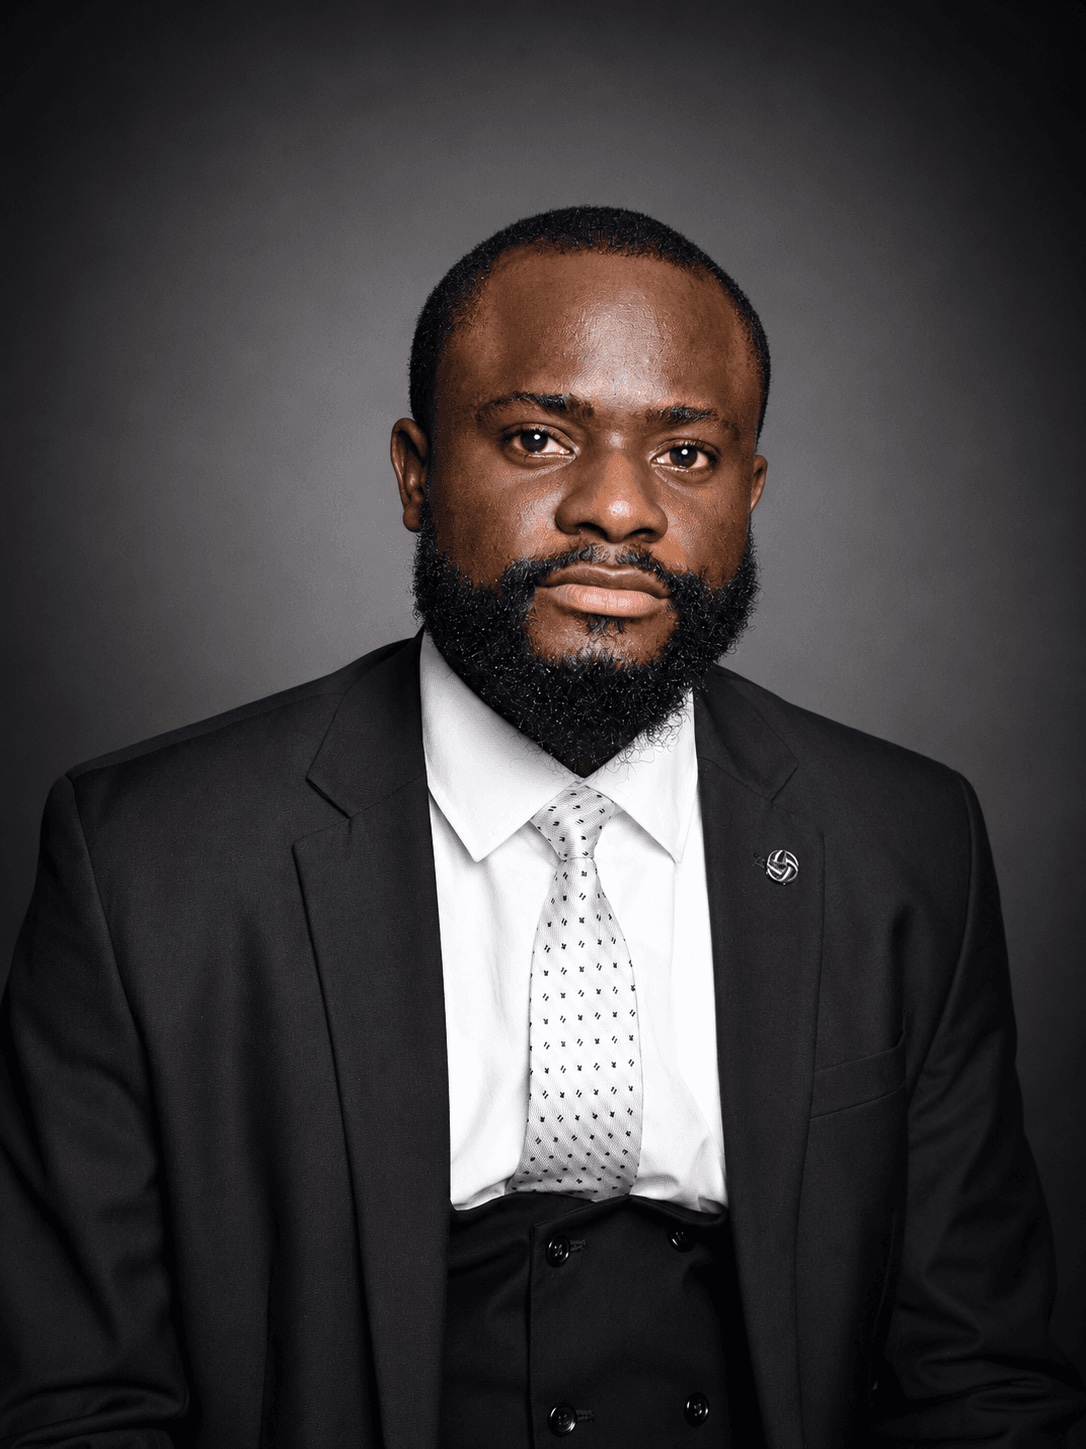
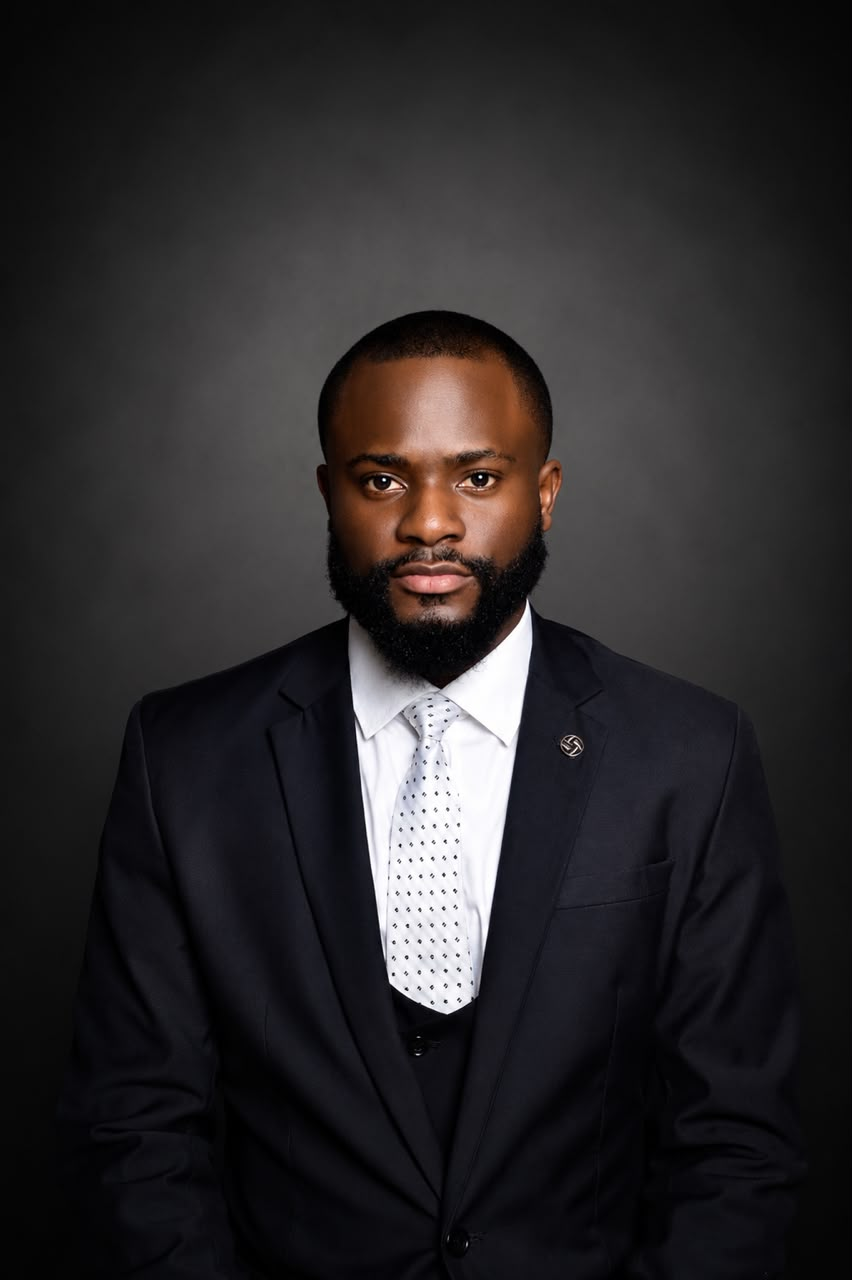
Use the new founder photo on both People pages

diff --git a/src/data/people.ts b/src/data/people.ts
@@ -1,6 +1,5 @@
 import type { StaticImageData } from "next/image";
 import chinonsoSheriff from "../../public/images/people/chinonso-sheriff.jpg";
-import chinonsoSheriffPortrait from "../../public/images/people/chinonso-sheriff-portrait.jpg";
 
 // Real lawyers are written out in full and appear on the People pages. Profiles
 // made with p() are PLACEHOLDERS invented for the design build (they only author
@@ -15,7 +14,6 @@ export type Person = {
   practices: string[]; // practice slugs
   focus?: string[]; // specialisms as the lawyer describes them
   photo?: StaticImageData;
-  portrait?: StaticImageData; // optional second photo for the profile page
   phone?: string;
   email?: string;
   bio: string[];
@@ -39,7 +37,6 @@ export const people: Person[] = [
     practices: ["criminal-law-defence", "dispute-resolution", "property-conveyancing", "real-estate-construction", "corporate-m-and-a", "entertainment-law"],
     focus: ["Criminal Law", "Civil Litigation", "Property Law", "Corporate Law", "Business Law", "Entertainment Law"],
     photo: chinonsoSheriff,
-    portrait: chinonsoSheriffPortrait,
     bio: [
       "Chinonso is the Founder and Principal Counsel of Fiat Justitia Attorneys. He is a dedicated legal practitioner specialising in Criminal, Civil, Property, Corporate, Business and Entertainment Law, combining meticulous legal research with persuasive writing to deliver clear, strategic solutions to complex legal challenges.",
       "He is an alumnus of Afe Babalola University, Ado-Ekiti, Ekiti State, where he obtained his Bachelor of Laws degree (LL.B. Hons.). He went on to complete the mandatory National Youth Service Corps (NYSC) and then the Nigerian Law School programme at the Bagauda Campus, Kano State.",

diff --git a/src/app/people/[slug]/page.tsx b/src/app/people/[slug]/page.tsx
@@ -23,7 +23,6 @@ export default async function PersonPage({ params }: Props) {
   const person = getMember((await params).slug);
   if (!person) notFound();
 
-  const portrait = person.portrait ?? person.photo;
   const practices = person.practices.map(getPractice).filter((x) => x !== undefined);
   const firstName = person.name.split(" ").slice(-2, -1)[0] ?? person.name;
 
@@ -46,9 +45,9 @@ export default async function PersonPage({ params }: Props) {
               Contact {firstName} <ArrowRight className="size-4" />
             </Link>
           </div>
-          {portrait && (
+          {person.photo && (
             <div className="reveal relative mx-auto aspect-[4/5] w-full max-w-sm overflow-hidden rounded-sm bg-navy-900 shadow-[0_30px_60px_-30px_rgba(11,31,77,0.55)] ring-1 ring-gold/40 md:col-span-5 md:max-w-none lg:col-span-4">
-              <Image src={portrait} alt={`Portrait of ${person.name}`} fill priority sizes="(min-width: 1024px) 33vw, (min-width: 768px) 42vw, 384px" placeholder="blur" className="object-cover object-top" />
+              <Image src={person.photo} alt={`Portrait of ${person.name}`} fill priority sizes="(min-width: 1024px) 33vw, (min-width: 768px) 42vw, 384px" placeholder="blur" className="object-cover object-top" />
             </div>
           )}
         </div>
